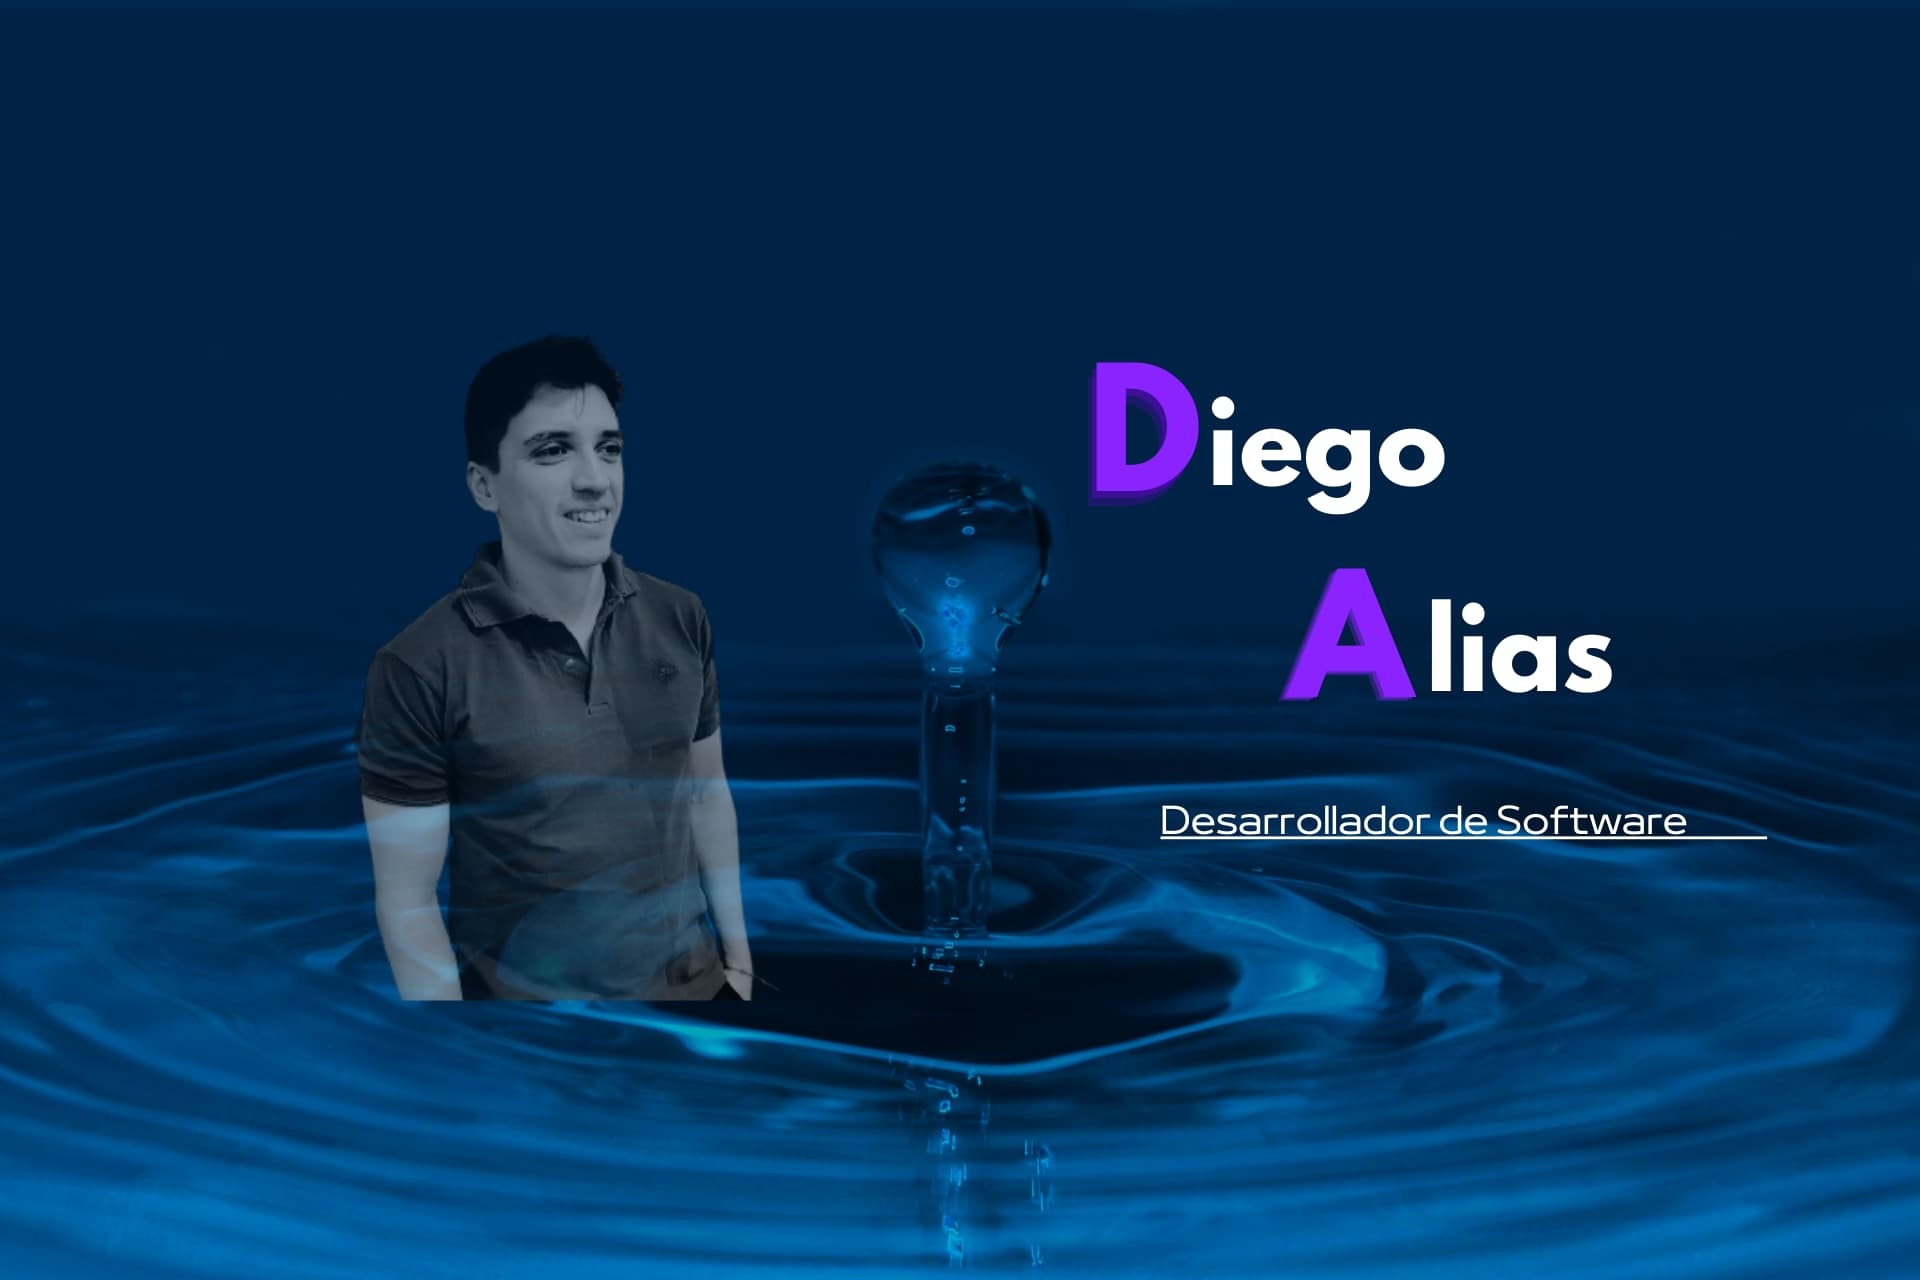
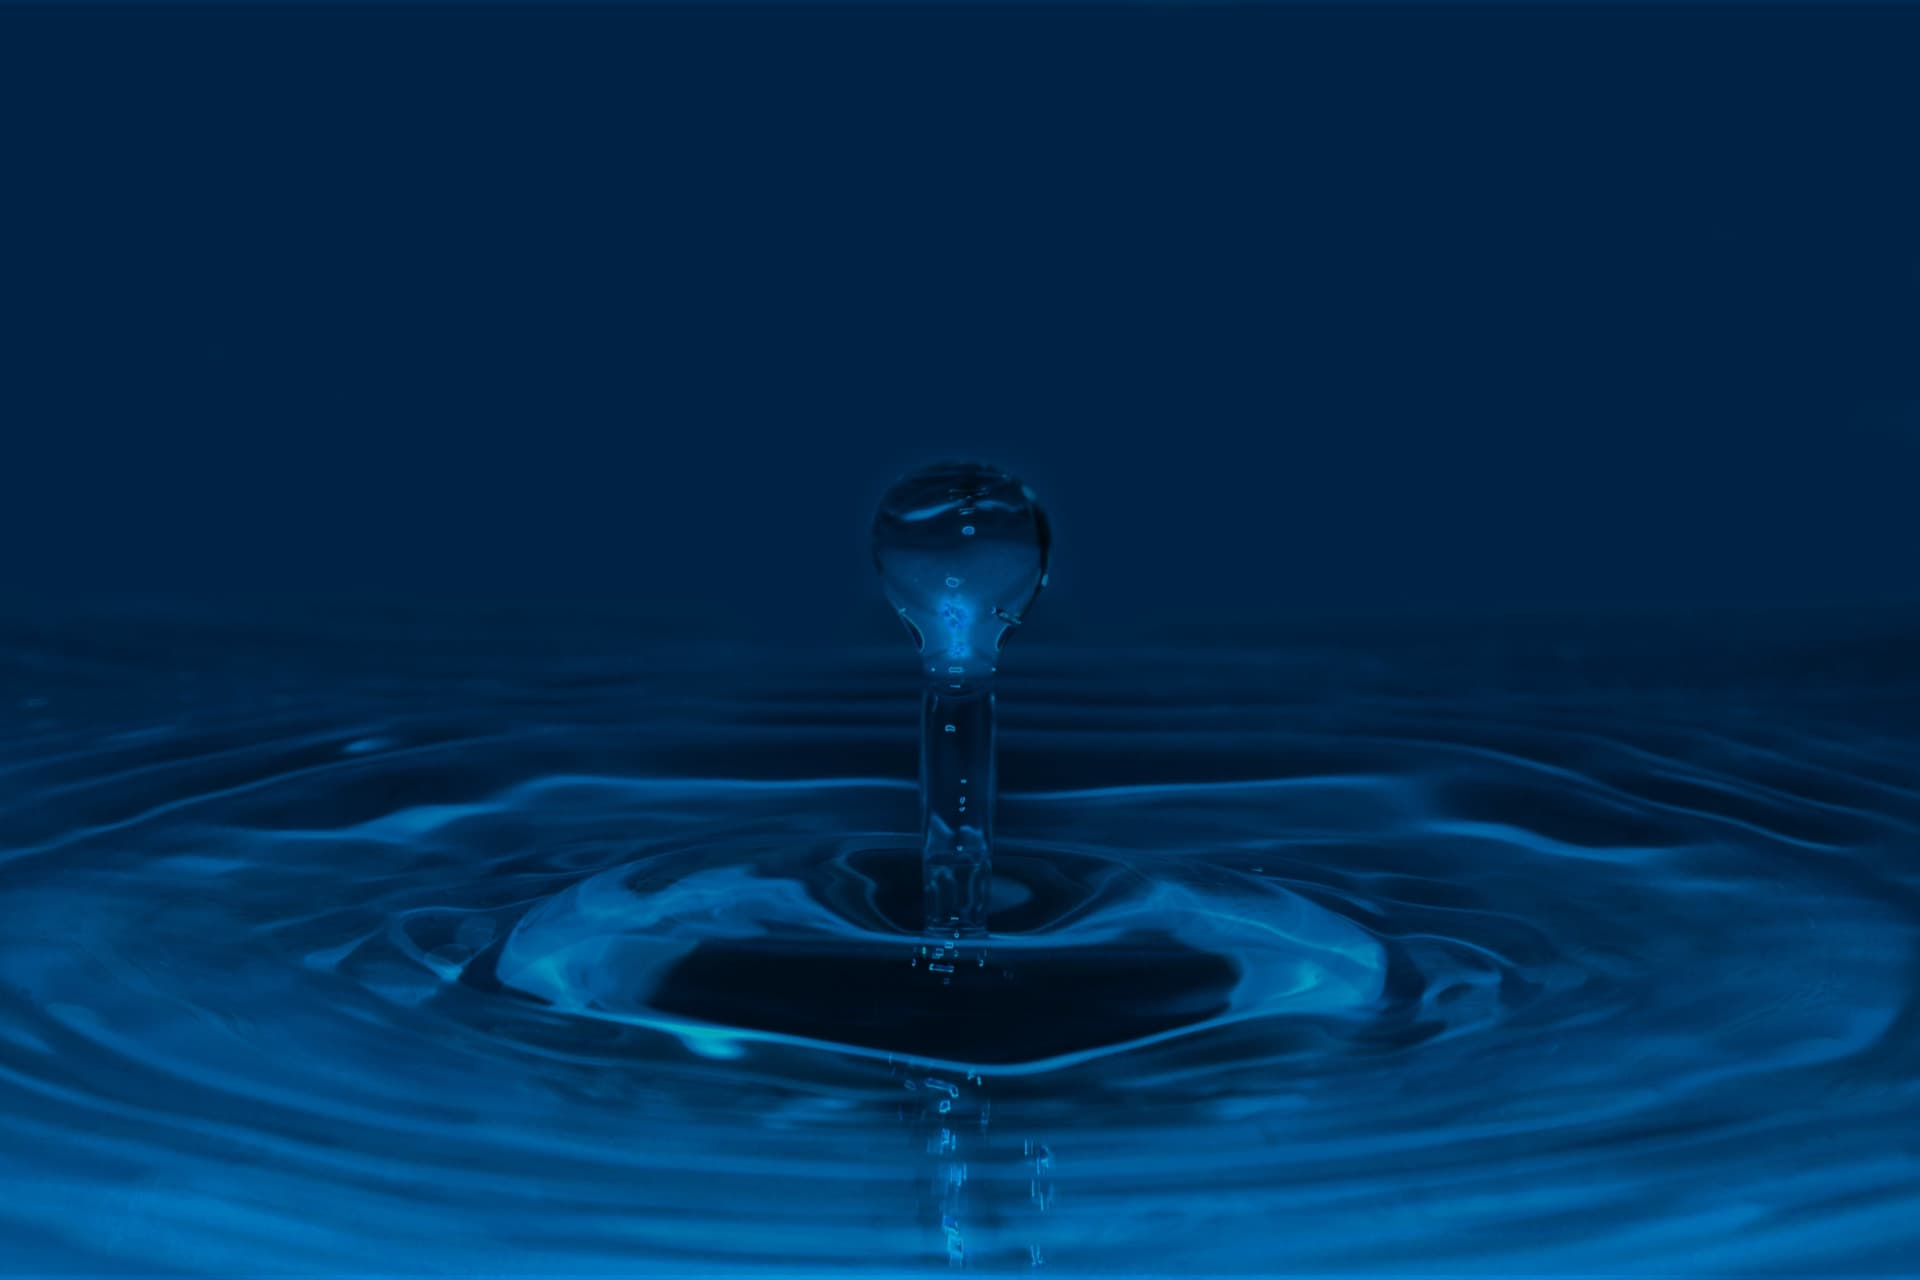
site update

diff --git a/src/public/css/main.css b/src/public/css/main.css
@@ -14,7 +14,7 @@ body {
     height: 100%;
 }
 
-/* INDEX.EJS */
+/* HOME.EJS */
 
 section {
     position: relative;
@@ -24,20 +24,54 @@ section {
 }
 
 #gif-home {
-    display: grid;
-    place-items: center;
+    display: flex;
+    justify-content: center;
+    align-items: center;
+    height: 100vh;
+    position: relative;
 }
 
-/* section h2 {
-    position: relative;
-    width: 100%;
-    height: 100vh;
+#gif-home img {
+    width: 320px;
+    height: 360px;
+}
+
+.banner .content {
+    position: absolute;
+    z-index: 1;
+    display: flex;
+    margin-top: 100px;
+}
+
+.perfil-2 {
+    display: grid;
+    place-items: center;
     text-align: center;
-    line-height: 100vh;
-    font-size: 10vw;
-    color: antiquewhite;
-    font-weight: 700;
-} */
+}
+
+.home-title h3 {
+    font-size: 80px;
+    margin-bottom: 20px;
+    font-family: 'Acme', sans-serif;
+}
+
+#home-h3 {
+    padding-left: 110px;
+}
+
+.home-title span {
+    color: #b73cb9;
+    font-weight: 800;
+    font-size: 150px;
+}
+
+#home-h4 {
+    color: #fff;
+    margin-top: 50px;
+    font-size: 20px;
+    font-weight: bold;
+    letter-spacing: 7px;
+}
 
 .banner {
     position: absolute;
@@ -50,17 +84,6 @@ section {
     flex-wrap: wrap;
     z-index: 99;
 }
-
-/* .shadow {
-    position: absolute;
-    bottom: 100%;
-    height: 300px;
-    width: 100%;
-    left: 0;
-    z-index: 200;
-    background-color: blue;
-    background: linear-gradient(to top, #383838, transparent)
-} */
 
 .banner .blocks {
     position: relative;
@@ -105,7 +128,6 @@ section {
         top: 0px;
         /* background: linear-gradient(to top, #151515, transparent), url(/img/perfil-1.jpg); */
         background: url(/img/perfil-11.jpg);
-
         background-position: center center;
         background-repeat: no-repeat;
         background-attachment: fixed;
@@ -122,6 +144,12 @@ section {
         width: 15vw;
         height: 15vw;
     }
+
+    /* .banner .content img {
+        display: none;
+    } */
+
+
 }
 
 @media only screen and (min-width: 769px) and (max-width: 1052px) {
@@ -145,61 +173,6 @@ section {
         height: 20vw;
     }
 }
-
-/* main {
-    background-color: #151515;
-    color: antiquewhite;
-}
-
-main h2 {
-    padding: 20px;
-}
-
-p {
-    padding: 20px;
-}
-
-li {
-    margin-bottom: 10px;
-}
-
-a {
-    text-decoration: none;
-    color: antiquewhite;
-    font-weight: bold;
-    font-size: 30px;
-}
-
-@media (max-width: 768px) {
-    ul {
-        right: 50px;
-    }
-}
-
-@media (max-width: 480px) {
-    ul {
-        right: 70px;
-    }
-} */
-
-/* .animated-link {
-    opacity: 0;
-    transform: translateX(100%);
-    animation: animateLink 0.5s forwards;
-    z-index: 1000;
-}
-
-@keyframes animateLink {
-    0% {
-        opacity: 0;
-        transform: translateX(100%);
-    }
-
-    100% {
-        opacity: 1;
-        transform: translateX(0);
-    }
-} */
 
 
 /* NAVBAR MENU */
@@ -267,7 +240,6 @@ a {
     padding: 20px;
     text-transform: uppercase;
     text-decoration: none;
-
     transition: all 0.4s;
 }
 
@@ -278,7 +250,7 @@ a {
 
 .navigation__checkbox:checked~.navigation__background {
     transform: scale(1.6);
-    transform: scale(30);
+    transform: scale(45);
 }
 
 .navigation__checkbox:checked~.navigation__nav {
@@ -360,6 +332,7 @@ a {
     font-weight: bold;
     position: relative;
     z-index: 1;
+    margin-bottom: 50px;
 }
 
 #img-about {
@@ -383,9 +356,10 @@ span {
 }
 
 p {
-    font-size: 13px;
+    font-size: 15px;
     font-weight: lighter;
     color: #fff;
+    margin-bottom: 50px;
 }
 
 #btn-about {
@@ -490,11 +464,11 @@ h3 {
 
 .timeline {
     margin: 3em auto;
-    max-width: 34.15em;
+    max-width: 34em;
 }
 
 .checkpoint {
-    max-width: 34em;
+    max-width: 33.91359em;
     padding-top: 2em;
     padding-bottom: .3em;
     position: relative;
@@ -511,7 +485,8 @@ h3 {
 }
 
 .checkpoint p {
-    padding: 10px 20px 5px 20px;
+    padding: 10px 20px 10px 20px;
+    margin-bottom: 5px;
 }
 
 .certifiqued-span {
